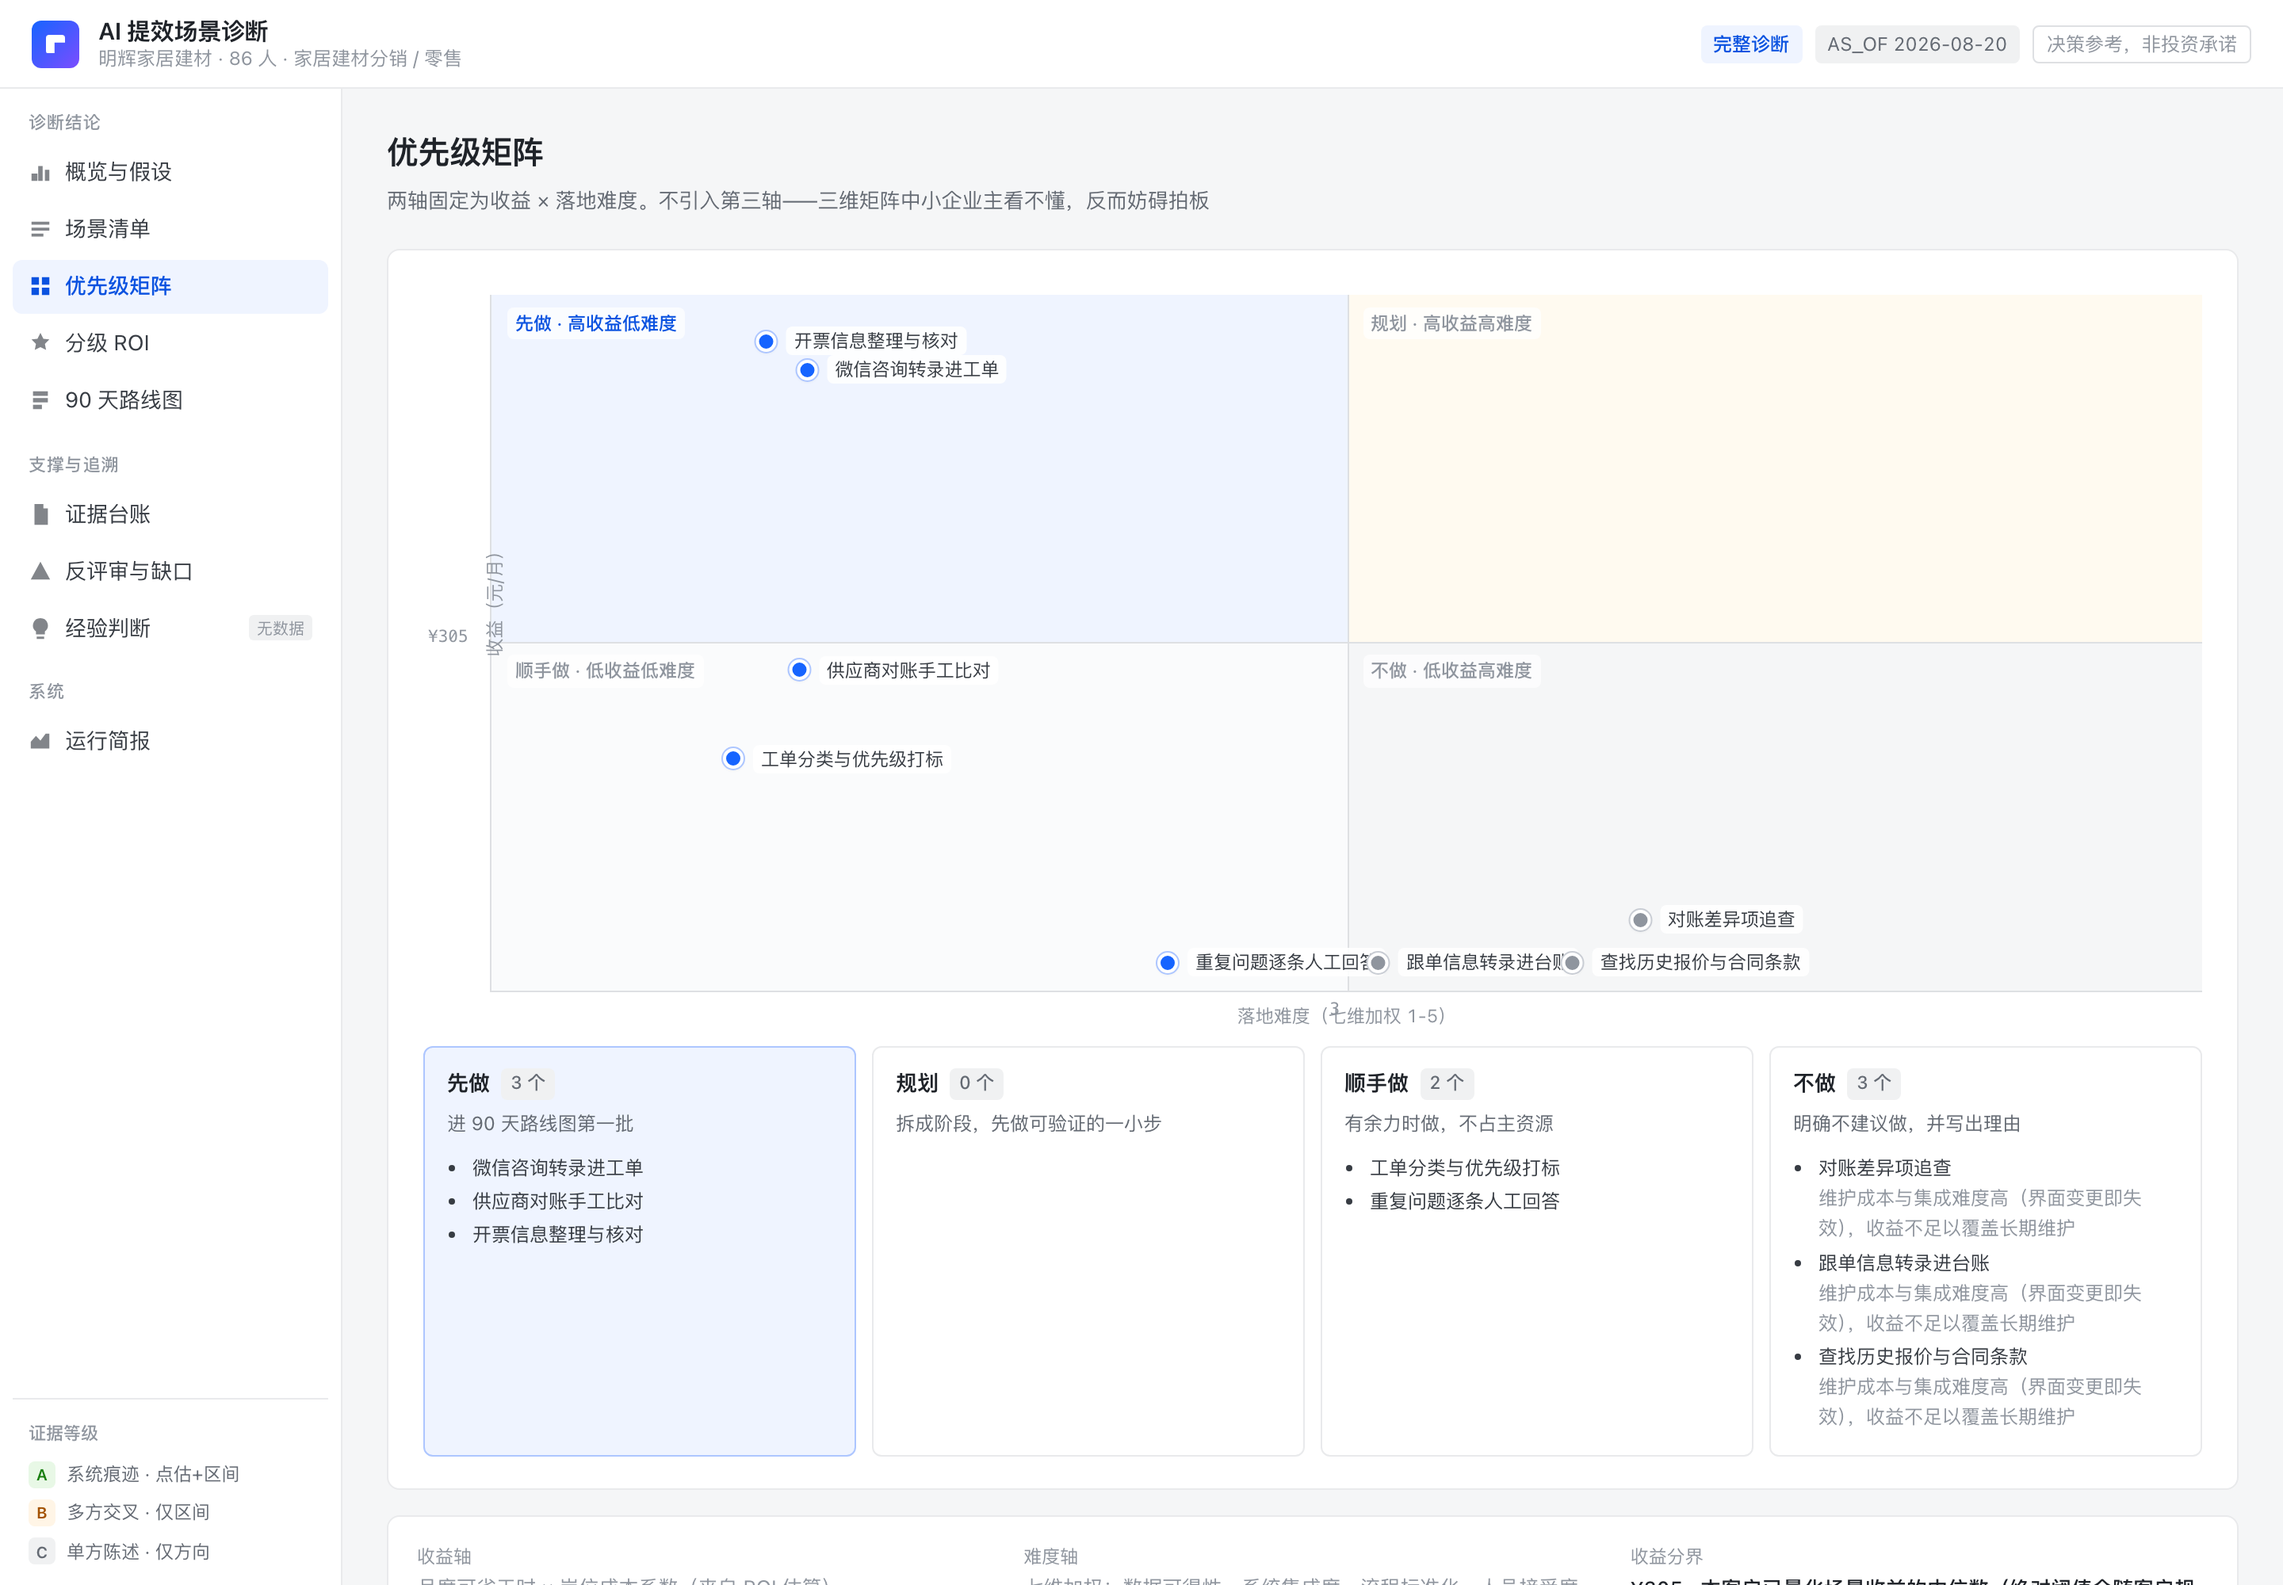
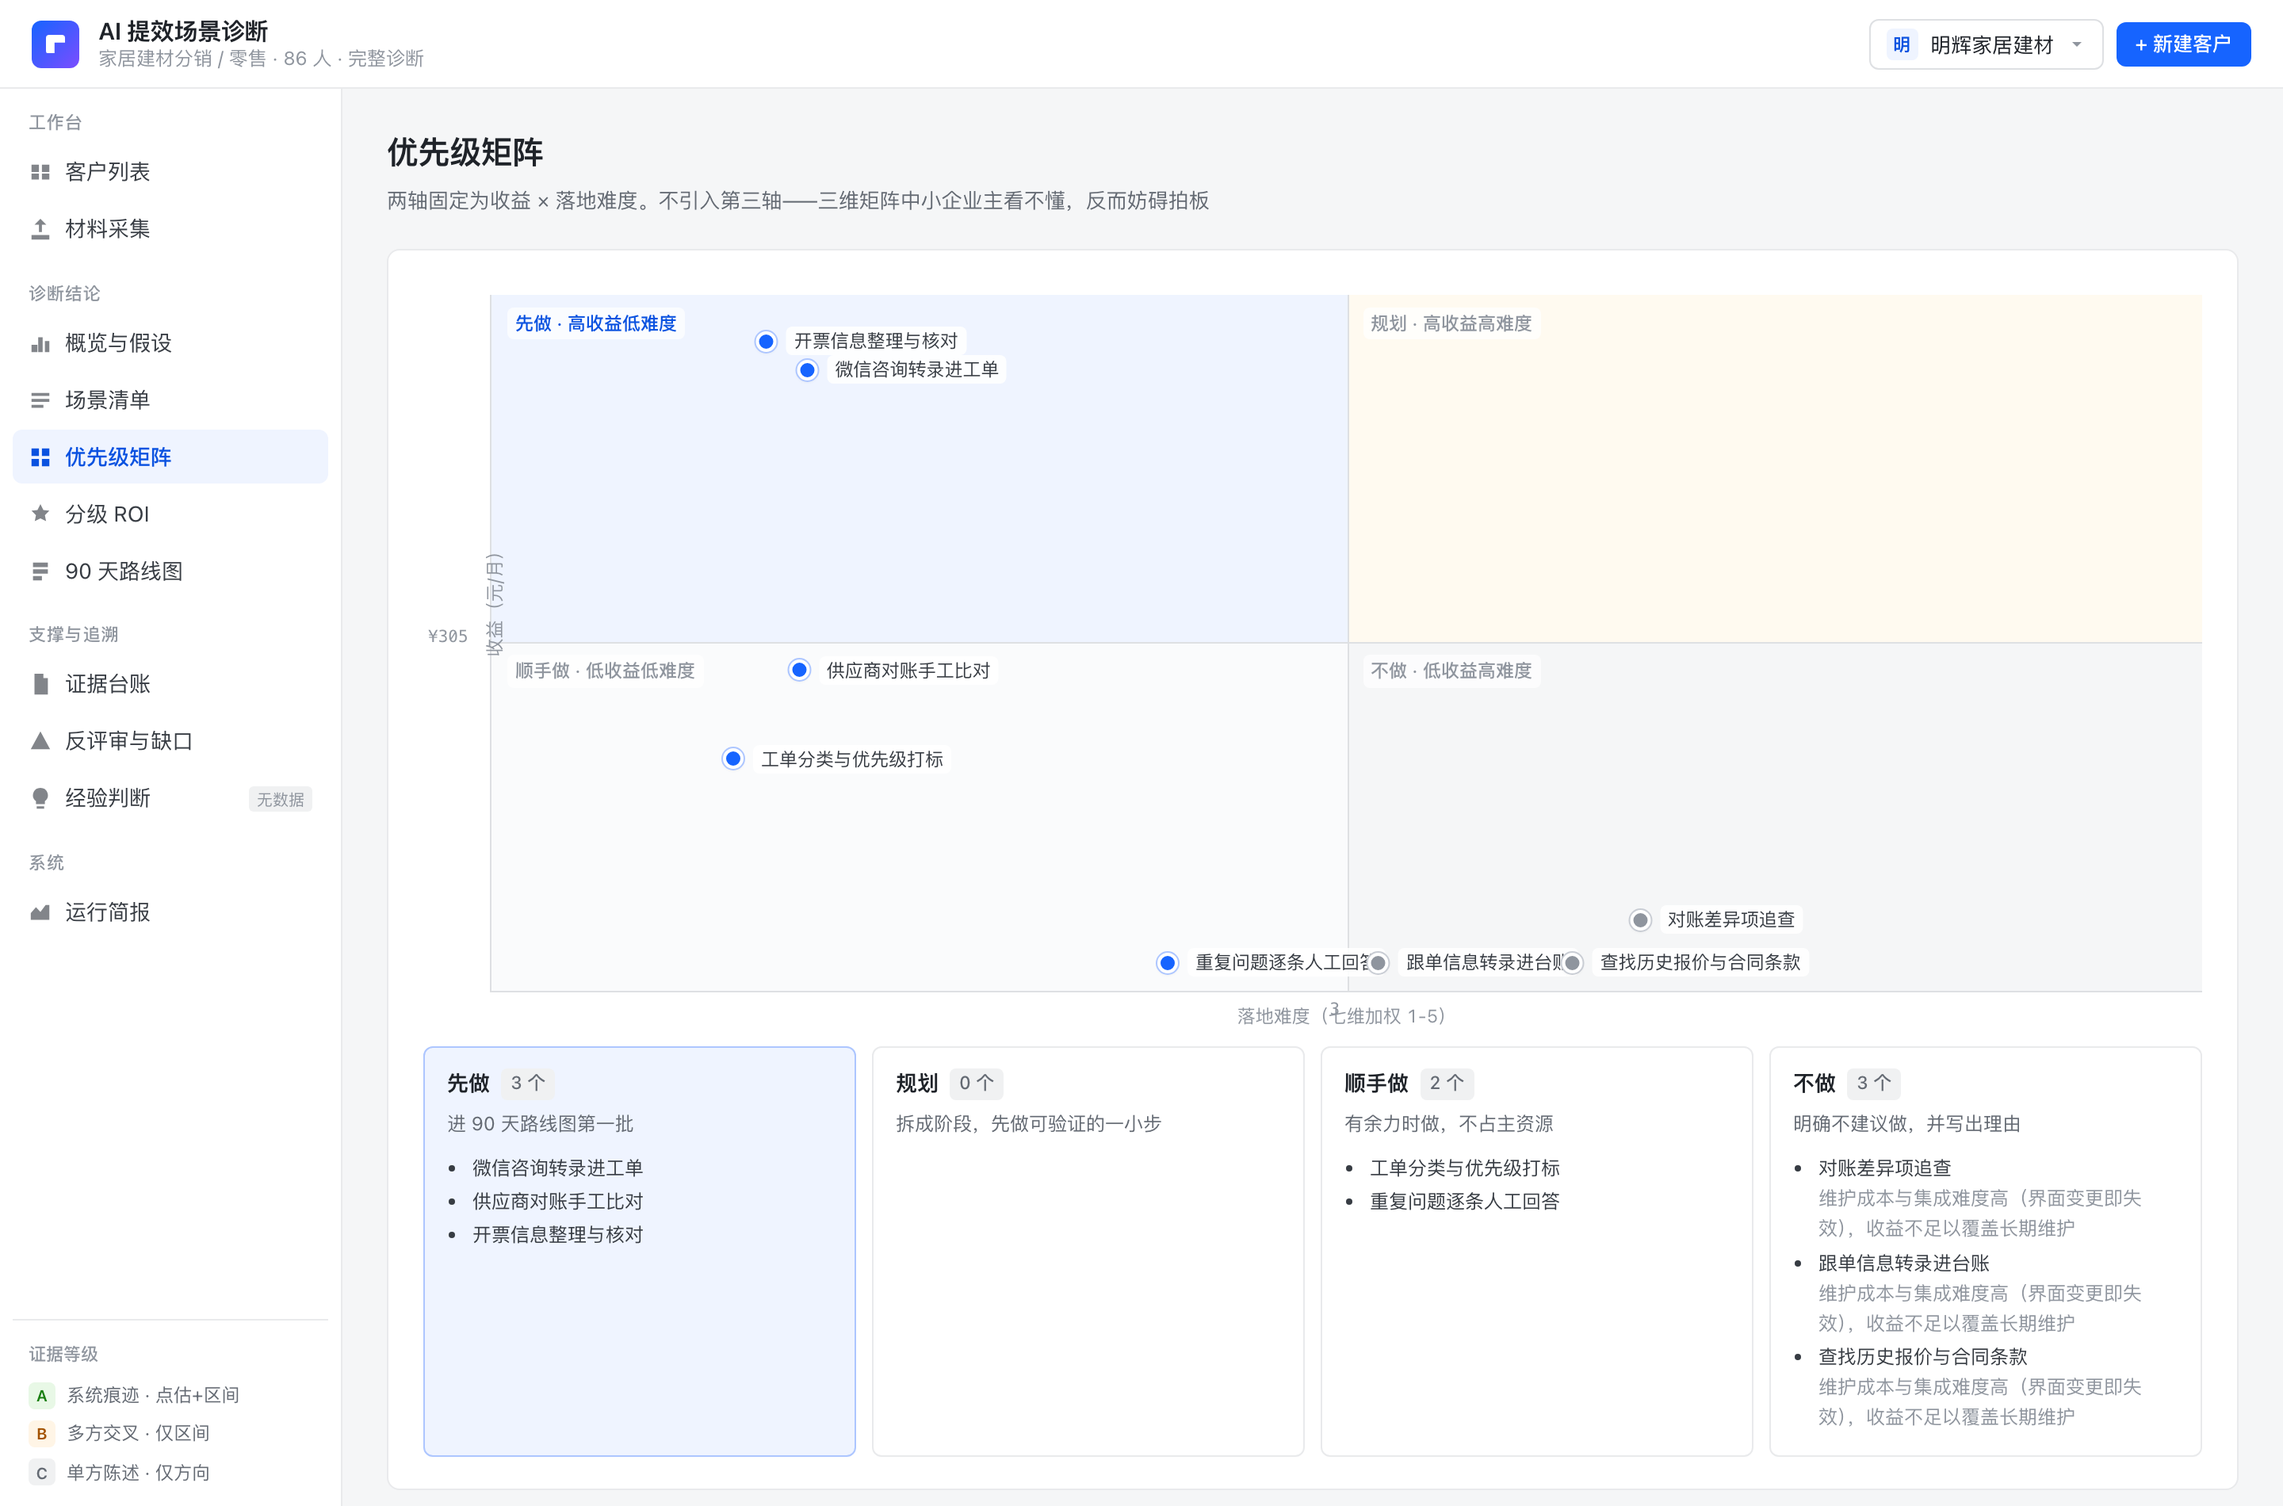
docs: README 补充顾问工作流与新模块，刷新界面截图
- 首屏改为说明"可接真实客户"，并给出四步工作流
- 模块表补 clients / intake / derive / diagnose
- 工程纪律补"没有材料就没有结论"等四条
- 截图新增客户列表与材料采集两页

diff --git a/README.md b/README.md
@@ -1,20 +1,40 @@
 # 中小企业 AI 提效场景识别 Agent
 
-按 `架构设计.md`（定稿 v1.2）实现的 Phase 1–3 最小可用系统 + Phase 4 反馈采集入口，
-并预置一个完整的真实感客户诊断案例（明辉家居建材，86 人，家居建材分销）。
+按 `架构设计.md`（定稿 v1.2）实现的 Phase 1–3 最小可用系统 + Phase 4 反馈采集入口。
+
+**这是一个可以拿去接真实客户的工具**：给任意新客户建档 → 上传业务系统导出 →
+跑出诊断报告。所有结论都从上传材料推导，取不到就明确标缺口，不会凭空生成数字。
+另外预置了一个完整案例（明辉家居建材，86 人，家居建材分销）供直接查看效果。
+
+## 怎么用（顾问的实际工作流）
+
+```
+新建客户  →  上传材料  →  开始诊断  →  读报告 / 收反馈
+（建档）     （拖拽 CSV）   （一键）      （9 个视图）
+```
+
+1. **新建客户**：右上角「+ 新建客户」，填名称、行业、人数、覆盖部门。
+   人数不在 20–200 区间不会被拒，但会标注「基准参考有限」。
+2. **上传材料**：拖拽导出文件进去。上传即探测，立刻告诉你这份材料能到什么证据等级：
+   - 有单条记录 + 时间戳 → **A 级可达**，可出完整诊断
+   - 有明细无时间戳 → **B 级上限**，ROI 只给区间
+   - 仅汇总数字 → **C 级上限**，只能出轻量咨询（无任何金额）
+   - 含宏的 `.xlsm`、类型白名单外的文件 → 直接拒收
+3. **开始诊断**：解析材料 → 推导操作环节 → 逐条算 ROI → 出报告。没有可用材料时按钮不可点。
+4. **读报告**：左侧 9 个视图；「运行简报」页底部可提交反馈（角色必填）。
 
 ## 快速开始
 
 ```bash
 uv venv .venv && uv pip install --python .venv/bin/python -e ".[dev]"
 
-# 1) 只跑一次诊断，看落盘结果
-.venv/bin/python run.py --seed
-
-# 2) 起 Web 交付物界面
+# 1) 起服务（主要用法）
 .venv/bin/python run.py            # → http://127.0.0.1:8848
 
-# 3) 让 S5 反评审与洞察由真实模型现场生成
+# 2) 只跑预置案例的诊断，看落盘结果，不起服务
+.venv/bin/python run.py --seed
+
+# 3) 让场景命名、S5 反评审与洞察由真实模型现场生成
 export AIEA_API_KEY=sk-...
 .venv/bin/python run.py --llm
 
@@ -26,9 +46,9 @@ PYTHONPATH=src .venv/bin/python -m aiea.evals     # 冻结黄金集 12 例
 > 环境里若存在 SOCKS 代理，必须装 `httpx[socks]`（已写入依赖），
 > 否则请求在传输层就失败——这个错误曾被上层的宽泛异常捕获伪装成"模型没话说"。
 
-## 预置案例能看到什么
+## 报告里有什么
 
-进入界面后按左侧编号顺序读，每一页都对应架构文档里的一项设计决策：
+左侧按顺序读，每一页对应架构文档里的一项设计决策：
 
 | 页 | 看点 |
 |---|---|
@@ -88,6 +108,11 @@ PYTHONPATH=src .venv/bin/python -m aiea.evals     # 冻结黄金集 12 例
 | `pipeline.py` | S0–S5 编排、阶段门禁、按阶段计 `MAX_STEPS`、读盘重建 | §2、§5、§13.1 |
 | `telemetry.py` | `gen_ai.*` 语义约定 + 自然语言简报 | §10 |
 | `evals.py` | 六维记分卡 + 冻结黄金集 12 例 | §14 |
+| `clients.py` | 客户注册表（多租户建档/切换/删除），slug 防路径穿越 | §17.2 |
+| `intake.py` | 受理前探测 + 材料上传解析：类型白名单、禁宏禁公式、注入检测 | §17.1.1、§12.2.1 |
+| `derive.py` | **场景推导**：从材料信号推出任务卡。数字由聚簇算出，LLM 只负责命名 | §11.1、§3.2 |
+| `diagnose.py` | 生产路径的 S0–S5 编排，与 `seed.py` 同 schema | §2 |
+| `seed.py` | 预置演示案例（材料与场景为讲清设计而构造） | — |
 
 ## 工程纪律（测试里锁死的部分）
 
@@ -100,5 +125,9 @@ PYTHONPATH=src .venv/bin/python -m aiea.evals     # 冻结黄金集 12 例
 - 反评审拿不到主 Agent 推理链（构造式隔离，不是提示约束）
 - 成本熔断与配置错误**必须冒泡**，不得静默降级成"模型没话说"
 - 客户原始数据不进任何知识库索引
+- **没有材料就没有结论**：无可用材料时诊断接口返回 409 并给可执行下一步，不编造场景
+- 场景卡的频次与工时由时间戳聚簇算出；模型引用不存在的列即丢弃
+- 分类计数为全表精确计数（按取值分摊会让频次系统性失真）
+- 客户之间物理隔离：工作区、证据台账、报告互不可见
 
 `evals/failure_replays/` 存放生产失败的最小复现用例，修好后转入黄金集回归。
